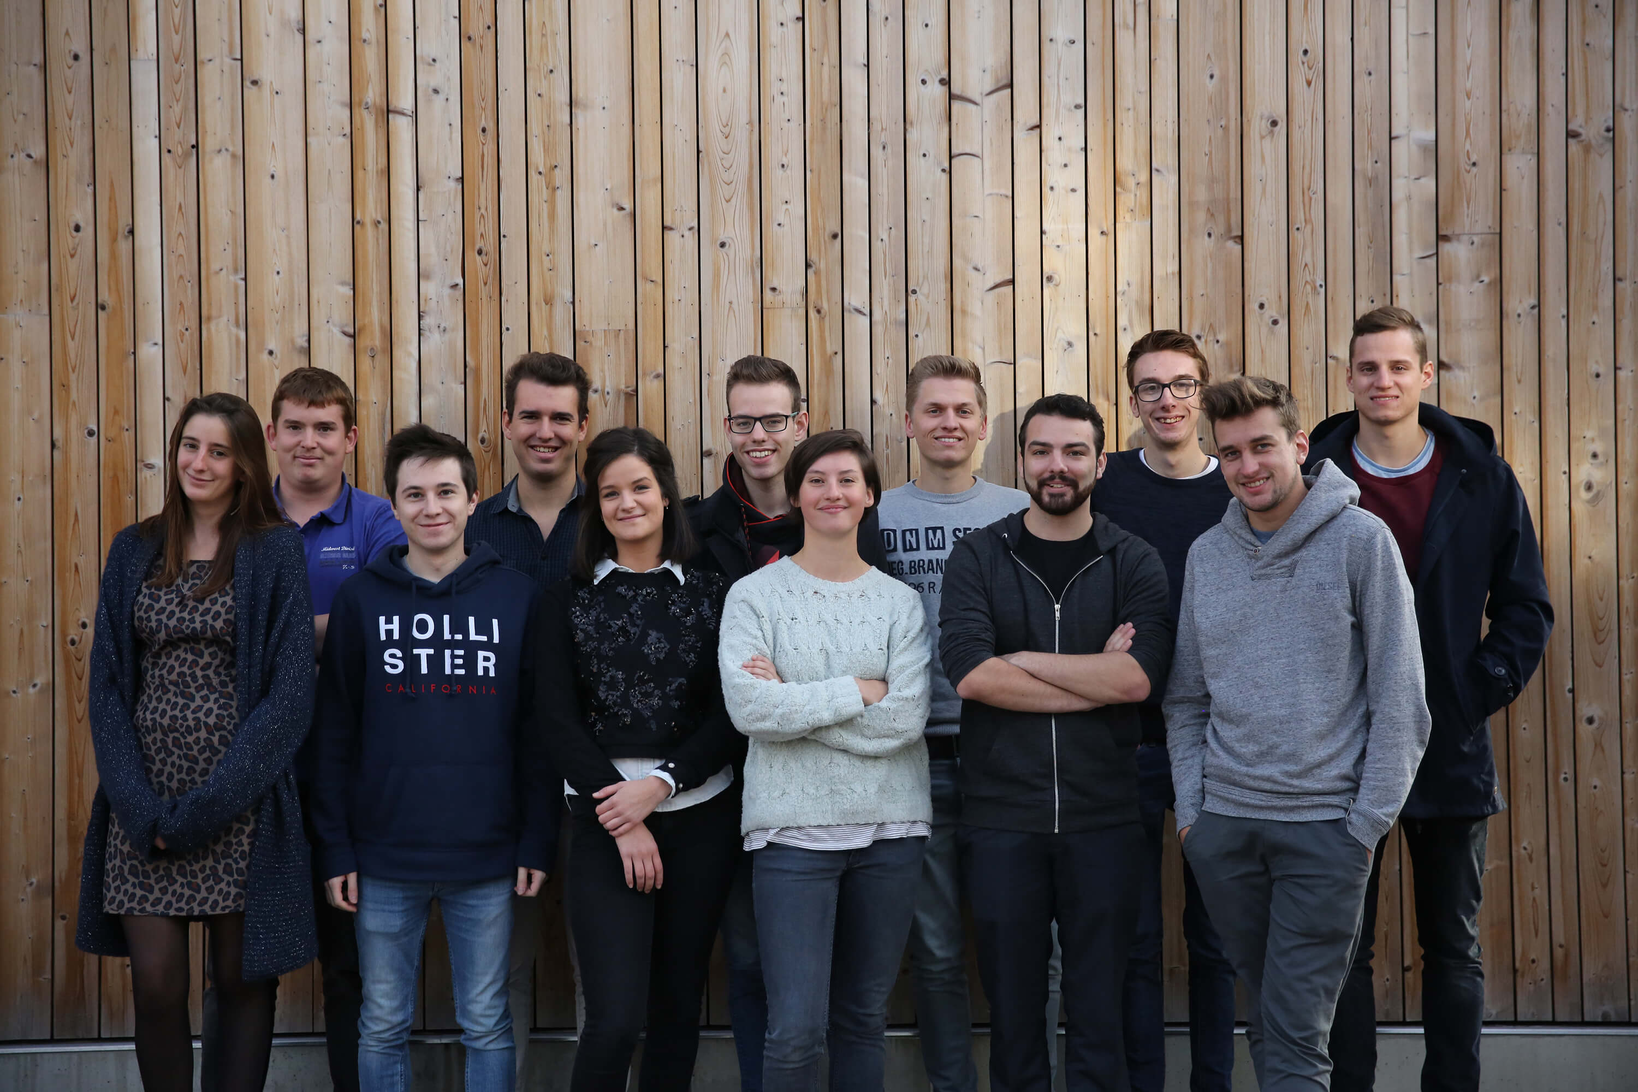
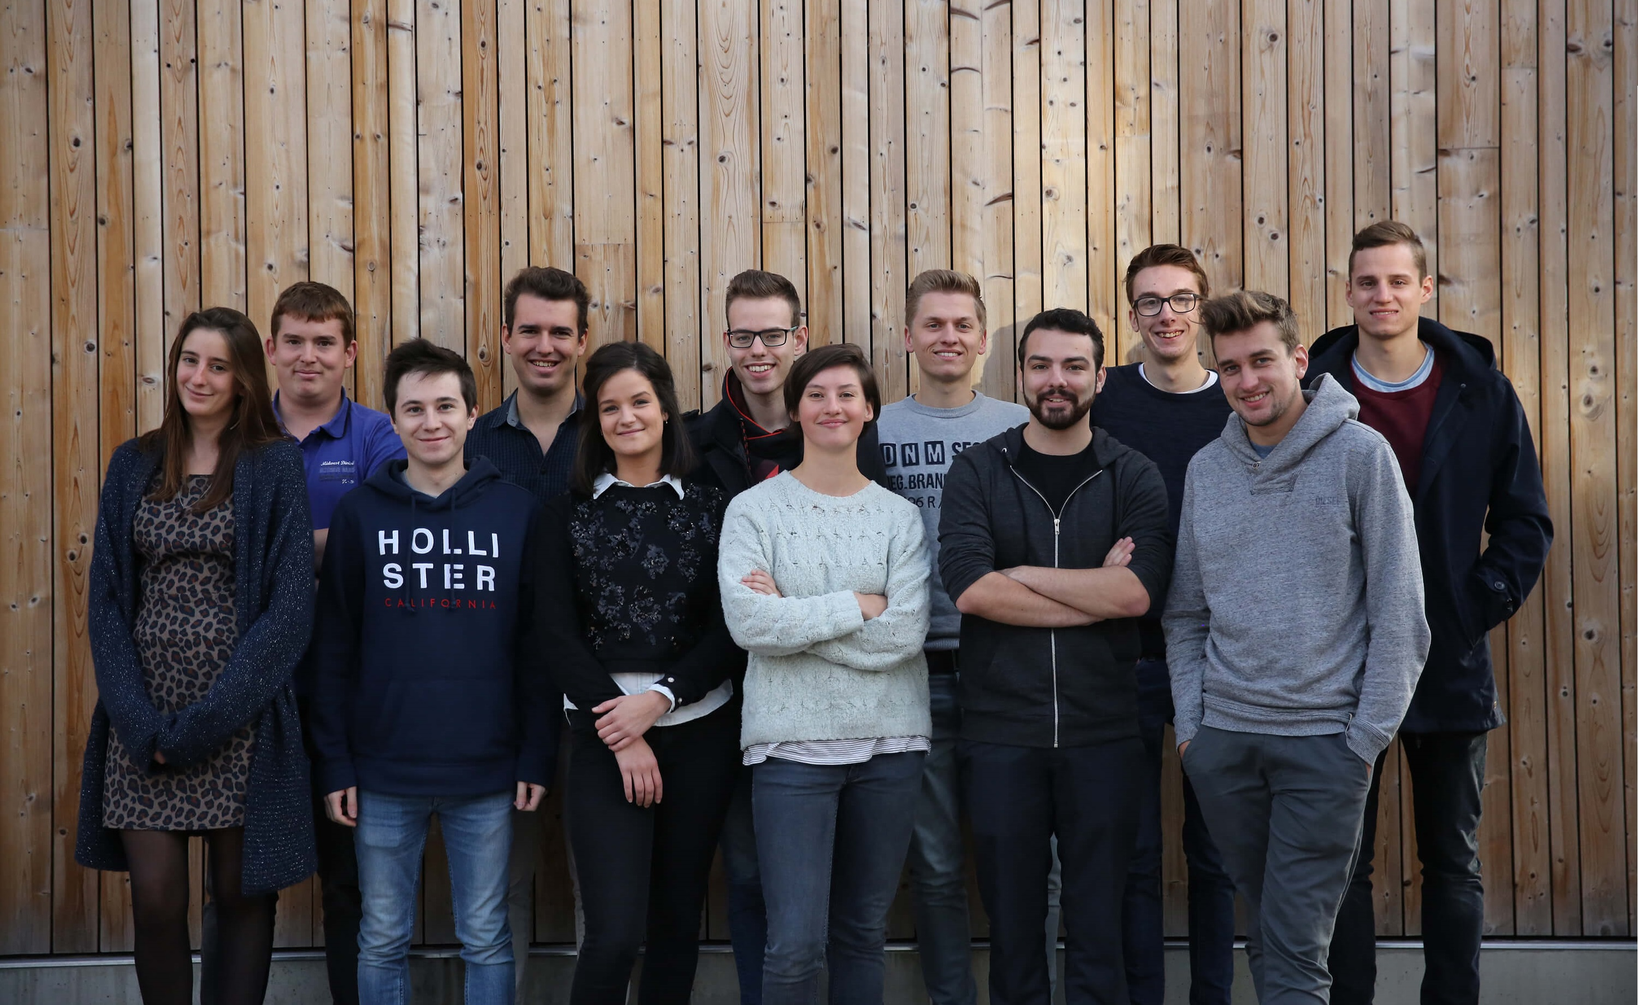
first teampage panel, and modified arrow

diff --git a/public/css/style.min.css b/public/css/style.min.css
@@ -1,1 +1,1 @@
-.header,.logo,.logo img{z-index:999}.hamburger-menu,.header{top:0;position:absolute}h1,nav ul li a{color:#fff;text-transform:uppercase;letter-spacing:2px}.fp-tableCell,.wrap-backProject{vertical-align:top}@font-face{font-family:Lato;font-style:normal;font-weight:300;src:local('Lato Light'),local('Lato-Light'),url(https://fonts.gstatic.com/s/lato/v11/nj47mAZe0mYUIySgfn0wpQ.ttf) format('truetype')}@font-face{font-family:Lato;font-style:normal;font-weight:400;src:local('Lato Regular'),local('Lato-Regular'),url(https://fonts.gstatic.com/s/lato/v11/v0SdcGFAl2aezM9Vq_aFTQ.ttf) format('truetype')}@font-face{font-family:Lato;font-style:normal;font-weight:700;src:local('Lato Bold'),local('Lato-Bold'),url(https://fonts.gstatic.com/s/lato/v11/DvlFBScY1r-FMtZSYIYoYw.ttf) format('truetype')}nav ul li a{text-decoration:none;font-family:Lato,sans-serif;font-weight:300;font-size:.8rem}.header{left:0;background:0 0;height:50px;width:100%;margin-top:20px}.logo{margin-left:5%}.logo img{height:100%;width:37px}.hamburger-menu{right:0;height:100%;width:50px;background-color:transparent;z-index:9999;cursor:pointer;padding-right:6%}.hamburger-menu .cd-menu-text{color:#fff;font-weight:700;display:none}.hamburger-menu .hamburger-menu-icon{display:inline-block;position:absolute;left:50%;top:50%;bottom:auto;right:auto;-ms-transform:translateX(-50%) translateY(-50%);transform:translateX(-50%) translateY(-50%);width:28px;height:3px;background-color:#fff;transition:background-color .3s}.hamburger-menu .hamburger-menu-icon::before,.hamburger-menu .hamburger-menu-icon:after{content:"";width:100%;height:100%;position:absolute;background-color:#fff;right:0;transition:transform .3s,top .3s,background-color 0s}.hamburger-menu .hamburger-menu-icon::before{top:-8px}.hamburger-menu .hamburger-menu-icon::after{top:8px}.hamburger-menu .hamburger-menu-icon.is-clicked{background-color:rgba(255,255,255,0)}.hamburger-menu .hamburger-menu-icon.is-clicked::after,.hamburger-menu .hamburger-menu-icon.is-clicked::before{background-color:#fff}.hamburger-menu .hamburger-menu-icon.is-clicked::before{top:0;-ms-transform:rotate(135deg);transform:rotate(135deg)}.hamburger-menu .hamburger-menu-icon.is-clicked::after{top:0;-ms-transform:rotate(225deg);transform:rotate(225deg)}.navigation{position:fixed;left:0;top:0;height:100%;width:100%;background:0 0;z-index:2;text-align:center;-webkit-backface-visibility:hidden;backface-visibility:hidden;overflow:auto;-webkit-overflow-scrolling:touch;-ms-transform:translateY(-100%);transform:translateY(-100%);transition-property:transform;transition-duration:.4s}.navigation ul{margin-top:10vh;padding-top:5vh}.navigation li{font-weight:300;margin:.2em 0;font-size:1.9rem;padding-top:1vh;padding-bottom:1vh}.navigation a{display:inline-block;padding:.4em 1em;border-radius:.25em;transition:background .2s}.navigation.is-visible{-ms-transform:translateY(0);transform:translateY(0);background-color:#22242a;z-index:2;position:fixed;-ms-flex-direction:column;flex-direction:column;display:-ms-flexbox;display:flex;-ms-flex-pack:center;justify-content:center;-ms-flex-align:center;align-items:center}@media (min-width:768px){.header.is-fixed,.header.menu-is-open{background-color:transparent}.navigation{position:fixed;top:50%;bottom:auto;-ms-transform:translateY(-50%);transform:translateY(-50%);margin-right:75px;text-align:right;display:block;height:auto;padding:0}.navigation li{display:inline-block;margin-left:.9em;margin-right:.9em;font-weight:300;font-size:1rem;letter-spacing:2px}.navigation li:last-child{margin-right:75px}.navigation a{display:inline-block;color:#fff;text-transform:uppercase;font-weight:400;padding:0}.logo{margin-left:75px}.logo img{width:50px;padding-top:0;height:100%}.header{transition:background-color .3s;-ms-transform:translate3d(0,0,0);transform:translate3d(0,0,0);-webkit-backface-visibility:hidden;backface-visibility:hidden;height:75px;margin-top:50px}.header.is-fixed{position:fixed;top:-80px;transition:transform .3s}.header.is-visible{-ms-transform:translate3d(0,100%,0);transform:translate3d(0,100%,0)}.hamburger-menu{display:none}}@media only screen and (min-width:1170px){.header.is-fixed,.header.menu-is-open{background-color:transparent}.header{transition:background-color .3s;-ms-transform:translate3d(0,0,0);transform:translate3d(0,0,0);-webkit-backface-visibility:hidden;backface-visibility:hidden;height:75px}.header.is-fixed{position:fixed;top:-80px;transition:transform .3s}.header.is-visible{-ms-transform:translate3d(0,100%,0);transform:translate3d(0,100%,0)}ul li:hover{transition:linear .2s;-ms-transform:scale(.9);transform:scale(1.3)}}.wrap-back{background-image:url(../img/back.jpg);position:relative;height:100vh;width:100vw;background-position:center center;background-size:cover}.wb-aptolist,.wb-doktercollemont,.wb-ecards,.wb-knowledgeflow,.wb-lcie,.wb-weareimd{background-image:url(../img/projects.jpg)}#teamBackground{background-image:url(../img/groepsfoto.jpg)}#procedureBackground{background-image:url(../img/procedure.png)}.overlay{position:absolute;height:100%;width:100%;background-color:#000;opacity:.5;z-index:9}.designosource img{width:140px;height:auto}h1{font-family:Lato,sans-serif;font-size:2rem;font-weight:300;margin-top:10px;margin-bottom:35px}.wrap-buttons{display:-ms-flexbox;display:flex}.btn-case,.btn-website{letter-spacing:2px;font-weight:400;font-size:10px;margin-top:0;z-index:99;display:inline-block;line-height:40px;padding:0 14px;position:relative;transition:all .3s ease 0s;height:40px;text-decoration:none;font-family:Lato;text-transform:uppercase;font-style:normal;cursor:pointer}.wrap-buttons a{text-decoration:none}.btn-case{background:none;border:1px solid #FFF;color:#FFF;border-width:2px!important;border-style:solid!important;border-radius:3px;margin-right:15px}.btn-case:hover{color:#000;background-color:#fff}.btn-website{background:#fff;border:1px solid #FFF;color:#000;border-width:2px!important;border-style:solid!important;border-radius:3px}.mail,.type-wrap{font-weight:300;font-family:Lato,sans-serif;letter-spacing:1px}.header-image-project,.image-scroll{background-position:center center;background-size:cover}.btn-website:hover{color:#fff;background-color:#000;border:1px solid #000}.scroll-btn{position:absolute;bottom:0;right:0;margin-bottom:20px;margin-right:6%;width:40px;height:40px;border:2px solid #fff;border-radius:2px;display:-ms-flexbox;display:flex;-ms-flex-pack:center;justify-content:center;-ms-flex-align:center;align-items:center;cursor:pointer;transition:all .4s ease-in-out;-webkit-transition:all .4s ease-in-out;z-index:999}.scroll-btn:hover{border:2px solid transparent}.image-scroll{background-image:url(../img/down-arrow.svg);height:60%;width:60%}@media (min-width:768px){.wrap-panel-content{margin-left:75px}#panel1Background,#panel4Background{background-image:url(../img/test1.gif)}#panel2Background,#panel5Background{background-image:url(../img/test2.gif)}#panel3Background,#panel6Background{background-image:url(../img/test3.gif)}.scroll-btn{margin-right:75px;margin-bottom:60px}}.wrap-contact{width:100vw;height:100vh;background-color:#000}.wrap-contact-content{position:absolute;bottom:0;left:0;margin-bottom:60px;margin-left:5%;width:100%;z-index:99}.border-mail{border:2px solid #fff;padding:25px;width:300px;text-align:center;margin-top:50px;margin-bottom:35px;border-radius:3px}.mail{color:#fff;font-size:1.6rem}.type-wrap{color:#fff;font-size:2rem;width:75%}.typed-cursor{opacity:1;font-weight:100;animation:blink .7s infinite}@-keyframes blink{0%,100%{opacity:1}50%{opacity:0}}.header-image-project{position:relative;width:100vw;height:60vh;background-image:url(../img/projects.jpg)}.wrap-project{position:relative;display:-ms-flexbox;display:flex;-ms-flex-direction:column;flex-direction:column;-ms-flex-align:center;align-items:center;-ms-flex-pack:center;justify-content:center;background-color:#F2F2F2;padding-left:100px;padding-right:100px;padding-bottom:100px}.wrap-project-content{width:100%;height:auto;background-color:#fff;border-radius:2px;margin-top:-125px;z-index:999;box-shadow:0 3px 6px 0 #c8c8c8}.title-project{font-family:Lato,sans-serif;font-weight:400;color:#323232;letter-spacing:1px;font-size:1.8rem;text-transform:uppercase;padding:75px 150px}.text-project,.wrap-btn-project{padding-left:150px;padding-right:150px}.text-project{font-family:Lato,sans-serif;font-weight:300;color:#323232;letter-spacing:1px;line-height:2em;padding-bottom:50px}.wrap-btn-project{padding-bottom:75px}.wrap-btn-project a{text-decoration:none}.btn-project{font-family:Lato;text-transform:uppercase;letter-spacing:2px;font-weight:400;font-style:normal;font-size:10px;background:none;border:1px solid #323232;color:#323232;border-width:2px!important;border-style:solid!important;cursor:pointer;display:inline-block;line-height:40px;padding:0 14px;height:40px;position:relative;transition:all .3s ease 0s;border-radius:3px;z-index:999}.btn-project:hover{color:#fff;background-color:#323232}.wrap-backProject{height:75vh;width:100vw;background-size:cover;display:block;position:relative;background-position:top}.wrap-panel-content{position:absolute;bottom:0;left:0;margin-bottom:20px;margin-left:5%;z-index:99}.fp-tableCell>p{padding-top:15px;width:70%;font-size:1.2em;line-height:27px;display:block;margin-left:auto;margin-right:auto;font-weight:600}#projectBackground{background-color:#fff}.overlayProject{position:absolute;height:75vh;width:100vw;background-color:#000;opacity:.5;z-index:9}#projectHeader{margin-left:20%;margin-right:20%}@media (min-width:768px){.fp-tableCell>p{padding-top:25px;width:60%;font-size:1.3em;line-height:27px;display:block;margin-left:auto;margin-right:auto}.wrap-panel-content{position:absolute;bottom:0;left:0;margin-bottom:60px;margin-left:75px;z-index:99}}
+.header,.logo,.logo img{z-index:999}.hamburger-menu,.header{top:0;position:absolute}h1,nav ul li a{color:#fff;text-transform:uppercase;letter-spacing:2px}nav ul li a{text-decoration:none;font-family:Lato,sans-serif;font-weight:300;font-size:1.6rem}.header{left:0;background:0 0;height:50px;width:100%;margin-top:20px}.logo{margin-left:5%}.logo img{height:100%;width:37px}.hamburger-menu{right:0;height:100%;width:50px;background-color:transparent;z-index:9999;cursor:pointer;padding-right:6%}.hamburger-menu .cd-menu-text{color:#fff;font-weight:700;display:none}.hamburger-menu .hamburger-menu-icon{display:inline-block;position:absolute;left:50%;top:50%;bottom:auto;right:auto;-ms-transform:translateX(-50%) translateY(-50%);transform:translateX(-50%) translateY(-50%);width:28px;height:3px;background-color:#fff;transition:background-color .3s}.hamburger-menu .hamburger-menu-icon::before,.hamburger-menu .hamburger-menu-icon:after{content:"";width:100%;height:100%;position:absolute;background-color:#fff;right:0;transition:transform .3s,top .3s,background-color 0s}.hamburger-menu .hamburger-menu-icon::before{top:-8px}.hamburger-menu .hamburger-menu-icon::after{top:8px}.hamburger-menu .hamburger-menu-icon.is-clicked{background-color:rgba(255,255,255,0)}.hamburger-menu .hamburger-menu-icon.is-clicked::after,.hamburger-menu .hamburger-menu-icon.is-clicked::before{background-color:#fff}.hamburger-menu .hamburger-menu-icon.is-clicked::before{top:0;-ms-transform:rotate(135deg);transform:rotate(135deg)}.hamburger-menu .hamburger-menu-icon.is-clicked::after{top:0;-ms-transform:rotate(225deg);transform:rotate(225deg)}.navigation{position:fixed;left:0;top:0;height:100%;width:100%;background:0 0;z-index:2;text-align:center;-webkit-backface-visibility:hidden;backface-visibility:hidden;overflow:auto;-webkit-overflow-scrolling:touch;-ms-transform:translateY(-100%);transform:translateY(-100%);transition-property:transform;transition-duration:.4s}.navigation ul{margin-top:10vh;padding-top:5vh}.navigation li{font-weight:300;margin:.2em 0;font-size:1.9rem;padding-top:1vh;padding-bottom:1vh}.navigation a{display:inline-block;padding:.4em 1em;border-radius:.25em;transition:background .2s}.navigation.is-visible{-ms-transform:translateY(0);transform:translateY(0);background-color:#22242a;z-index:2;position:fixed;-ms-flex-direction:column;flex-direction:column;display:-ms-flexbox;display:flex;-ms-flex-pack:center;justify-content:center;-ms-flex-align:center;align-items:center}@media (min-width:768px){.header.is-fixed,.header.menu-is-open{background-color:transparent}.navigation{position:fixed;top:50%;bottom:auto;-ms-transform:translateY(-50%);transform:translateY(-50%);margin-right:75px;text-align:right;display:block;height:auto;padding:0}.navigation li{display:inline-block;margin-left:.9em;margin-right:.9em;font-weight:300;font-size:1rem;letter-spacing:2px}.navigation li:last-child{margin-right:75px}.navigation a{display:inline-block;color:#fff;text-transform:uppercase;font-weight:400;padding:0}.logo{margin-left:75px}.logo img{width:50px;padding-top:0;height:100%}.header{transition:background-color .3s;-ms-transform:translate3d(0,0,0);transform:translate3d(0,0,0);-webkit-backface-visibility:hidden;backface-visibility:hidden;height:75px;margin-top:50px}.header.is-fixed{position:fixed;top:-80px;transition:transform .3s}.header.is-visible{-ms-transform:translate3d(0,100%,0);transform:translate3d(0,100%,0)}.hamburger-menu{display:none}nav ul li a{font-size:.8rem}}@media only screen and (min-width:1170px){.header.is-fixed,.header.menu-is-open{background-color:transparent}.header{transition:background-color .3s;-ms-transform:translate3d(0,0,0);transform:translate3d(0,0,0);-webkit-backface-visibility:hidden;backface-visibility:hidden;height:75px}.header.is-fixed{position:fixed;top:-80px;transition:transform .3s}.header.is-visible{-ms-transform:translate3d(0,100%,0);transform:translate3d(0,100%,0)}ul li:hover{transition:linear .2s;-ms-transform:scale(.9);transform:scale(1.3)}}.wrap-back{background-image:url(../img/back.jpg);position:relative;height:100vh;width:100vw;background-position:center center;background-size:cover}.wb-aptolist,.wb-doktercollemont,.wb-ecards,.wb-knowledgeflow,.wb-lcie,.wb-weareimd{background-image:url(../img/projects.jpg)}#teamBackground{background-image:url(../img/home.jpg)}#procedureBackground{background-image:url(../img/procedure.png)}.overlay{position:absolute;height:100%;width:100%;background-color:#000;opacity:.5;z-index:9}.designosource img{width:140px;height:auto}h1{font-family:Lato,sans-serif;font-size:2rem;font-weight:300;margin-top:10px;margin-bottom:35px}.wrap-buttons{display:-ms-flexbox;display:flex}.btn-case,.btn-contact,.btn-website{letter-spacing:2px;font-weight:400;font-size:10px;margin-top:0;z-index:99;display:inline-block;line-height:40px;padding:0 14px;height:40px;position:relative;transition:all .3s ease 0s;text-decoration:none;font-family:Lato;text-transform:uppercase;font-style:normal;cursor:pointer}.wrap-buttons a{text-decoration:none}.btn-case{background:none;border:1px solid #FFF;color:#FFF;border-width:2px!important;border-style:solid!important;border-radius:3px;margin-right:15px}.btn-contact{background:none;border:1px solid #00FFCB;color:#00FFCB;border-width:2px!important;border-style:solid!important;border-radius:3px;margin-right:15px}.btn-contact:hover{color:#fff}.btn-case:hover{color:#000;background-color:#fff}.btn-website{background:#fff;border:1px solid #FFF;color:#000;border-width:2px!important;border-style:solid!important;border-radius:3px}.mail,.type-wrap{font-weight:300;font-family:Lato,sans-serif;letter-spacing:1px}.header-image-project,.image-scroll{background-position:center center;background-size:cover}.btn-website:hover{color:#fff;background-color:#000;border:1px solid #000}.scroll-btn{position:absolute;bottom:0;right:0;margin-bottom:20px;margin-right:6%;width:44px;height:44px;border-radius:2px;display:-ms-flexbox;display:flex;-ms-flex-pack:center;justify-content:center;-ms-flex-align:center;align-items:center;cursor:pointer;transition:all .2s ease-in-out;-webkit-transition:all .2s ease-in-out;z-index:999}.image-scroll{background-image:url(../img/arrow.svg);height:100%;width:100%}.image-scroll:hover{background-image:url(../img/arrowGreen.svg);transition:all .4s linear;-webkit-transition:all .4s linear}@media (min-width:768px){.wrap-panel-content{margin-left:75px}#panel1Background,#panel4Background{background-image:url(../img/test1.gif)}#panel2Background,#panel5Background{background-image:url(../img/test2.gif)}#panel3Background,#panel6Background{background-image:url(../img/test3.gif)}.scroll-btn{margin-right:75px;margin-bottom:60px}}.wrap-contact{width:100vw;height:100vh;background-color:#000}.wrap-contact-content{position:absolute;bottom:0;left:0;margin-bottom:60px;margin-left:5%;width:100%;z-index:99}.border-mail{border:2px solid #fff;padding:25px;width:300px;text-align:center;margin-top:50px;margin-bottom:35px;border-radius:3px}.mail{color:#fff;font-size:1.6rem}.type-wrap{color:#fff;font-size:2rem;width:75%}.typed-cursor{opacity:1;font-weight:100;animation:blink .7s infinite}@-keyframes blink{0%,100%{opacity:1}50%{opacity:0}}.header-image-project{position:relative;width:100vw;height:60vh;background-image:url(../img/projects.jpg)}.wrap-project{position:relative;display:-ms-flexbox;display:flex;-ms-flex-direction:column;flex-direction:column;-ms-flex-align:center;align-items:center;-ms-flex-pack:center;justify-content:center;background-color:#F2F2F2;padding-left:100px;padding-right:100px;padding-bottom:100px}.wrap-project-content{width:100%;height:auto;background-color:#fff;border-radius:2px;margin-top:-125px;z-index:999;box-shadow:0 3px 6px 0 #c8c8c8}.title-project{font-family:Lato,sans-serif;font-weight:400;color:#323232;letter-spacing:1px;font-size:1.8rem;text-transform:uppercase;padding:75px 150px}.text-project,.wrap-btn-project{padding-left:150px;padding-right:150px}.text-project{font-family:Lato,sans-serif;font-weight:300;color:#323232;letter-spacing:1px;line-height:2em;padding-bottom:50px}.wrap-btn-project{padding-bottom:75px}.wrap-btn-project a{text-decoration:none}.btn-project{font-family:Lato;text-transform:uppercase;letter-spacing:2px;font-weight:400;font-style:normal;font-size:10px;background:none;border:1px solid #323232;color:#323232;border-width:2px!important;border-style:solid!important;cursor:pointer;display:inline-block;line-height:40px;padding:0 14px;height:40px;position:relative;transition:all .3s ease 0s;border-radius:3px;z-index:999}.btn-project:hover{color:#fff;background-color:#323232}.fp-tableCell{vertical-align:top}.wrap-backProject{height:75vh;width:100vw;background-size:cover;display:block;position:relative;background-position:top;vertical-align:top}.wrap-panel-content{position:absolute;bottom:0;left:0;margin-bottom:20px;margin-left:5%;z-index:99}.fp-tableCell>p{padding-top:15px;width:70%;font-size:1.2em;line-height:27px;display:block;margin-left:auto;margin-right:auto;font-weight:600}#projectBackground{background-color:#fff}.overlayProject{position:absolute;height:75vh;width:100vw;background-color:#000;opacity:.5;z-index:9}#projectHeader{margin-left:20%;margin-right:20%}@media (min-width:768px){.fp-tableCell>p{padding-top:25px;width:60%;font-size:1.3em;line-height:27px;display:block;margin-left:auto;margin-right:auto}.wrap-panel-content{position:absolute;bottom:0;left:0;margin-bottom:60px;margin-left:75px;z-index:99}}#team h1 span{color:#00FFCB}

diff --git a/assets/sass/modules/_panel.scss b/assets/sass/modules/_panel.scss
@@ -40,7 +40,7 @@
 
 #teamBackground
 {
-    background-image: url("../img/groepsfoto.jpg");
+    background-image: url("../img/home.jpg");
 }
 
 #procedureBackground
@@ -123,7 +123,39 @@ h1
     margin-right: 15px;
 
 }
+.btn-contact
+{
+    font-family: Lato;
+    text-transform: uppercase;
+    letter-spacing: 2px;
+    font-weight: 400;
+    font-style: normal;
+    font-size: 10px;
+    background: none repeat scroll 0% 0% transparent;
+    border: 1px solid $green;
+    color: $green;
+    margin-top: 0;
+    z-index: 99;
+    border-width: 2px !important;
+    border-style: solid !important;
+    cursor: pointer;
+    display: inline-block;
+    line-height: 40px;
+    padding: 0 14px;
+    height: 40px;
+    position: relative;
+    text-decoration: none;
+    transition: all 0.3s ease 0s;
+    border-radius: 3px;
+    margin-right: 15px;
 
+}
+
+.btn-contact:hover
+{
+    color: #fff;
+
+}
 .btn-case:hover
 {
     color: #000;
@@ -175,31 +207,32 @@ h1
     right: 0;
     margin-bottom: 20px;
     margin-right: 6%;
-    width: 40px;
-    height: 40px;
-    border: 2px solid #fff;
+    width: 44px;
+    height: 44px;
     border-radius: 2px;
     display: flex;
     justify-content: center;
     align-items: center;
     cursor: pointer;
-    transition: all 0.4s ease-in-out;
-    -webkit-transition: all 0.4s ease-in-out;
+    transition: all 0.2s ease-in-out;
+    -webkit-transition: all 0.2s ease-in-out;
     z-index: 999;
 }
 
-.scroll-btn:hover
-{
-    border: 2px solid transparent;
-}
 
 .image-scroll
 {
-    background-image: url("../img/down-arrow.svg");
-    height: 60%;
-    width: 60%;
+    background-image: url("../img/arrow.svg");
+    height: 100%;
+    width: 100%;
     background-position: center center;
     background-size: cover;
+}
+.image-scroll:hover
+{
+    background-image: url("../img/arrowGreen.svg");
+    transition: all 0.4s linear;
+    -webkit-transition: all 0.4s linear;
 }
 
 @media (min-width: 768px)

diff --git a/team.html b/team.html
@@ -49,26 +49,26 @@
 
 
 <div id="fullpage">
-    <div class="section">
-        <div class="wrap-back">
+    <div class="section" id="team" >
+        <div id="teamBackground" class="wrap-back">
             <div class="overlay"></div>
-            <div class="wrap-panel-content">
-                <div class="designosource"><img src="public/img/designosource.svg" alt="Designosource"></div>
-                <h1>TEAM + ABOUT</h1>
+            <div class="wrap-panel-content" >
+                <h1>Het Designoteam</h1>
                 <div class="wrap-buttons">
-                    <a href="#team"><div class="btn-case">View Team</div></a>
-                    <a href="#procedure"><div class="btn-website">View Procedure</div></a>
+                    <div class="btn-contact">Ontdek</div>
                 </div>
             </div>
+
         </div>
     </div>
 
-    <div class="section" id="team">
-        <div class="wrap-back" id="teamBackground">
+    <div class="section" id="team" >
+        <div id="detail" class="wrap-back">
             <div class="overlay"></div>
-            <div class="wrap-panel-content">
-                <h1>TEAM</h1>
+            <div class="wrap-panel-content" >
+
             </div>
+
         </div>
     </div>
 </div>
@@ -81,8 +81,15 @@
             navigation: true
 
         });
-
+    // MOVE SECTION DWN
+        $(".scroll-btn").click(function() {
+            $.fn.fullpage.moveSectionDown();
+        });
+        $(".wrap-buttons").click(function() {
+            $.fn.fullpage.moveSectionDown();
+        });
     });
+
 </script>
 <script src="public/js/script.js"></script>
 </body>

diff --git a/assets/sass/modules/_navigation.scss b/assets/sass/modules/_navigation.scss
@@ -5,7 +5,7 @@ nav ul li a {
   text-transform: uppercase;
   letter-spacing: 2px;
   font-weight: 300;
-  font-size: 0.8rem;
+  font-size: 1.6rem;
 }
 
 .header {
@@ -270,6 +270,10 @@ nav ul li a {
   }
   .hamburger-menu{
     display: none;
+  }
+  nav ul li a {
+
+    font-size: 0.8rem;
   }
 
 }

diff --git a/assets/sass/style.scss b/assets/sass/style.scss
@@ -3,4 +3,5 @@
 @import "modules/panel";
 @import "modules/contact";
 @import "modules/projects";
-@import url('https://fonts.googleapis.com/css?family=Lato:300,400,700');
+@import "modules/team";
+//@import url('https://fonts.googleapis.com/css?family=Lato:300,400,700');

diff --git a/assets/sass/_base.scss b/assets/sass/_base.scss
@@ -1,2 +1,3 @@
 // variabelen
 $purple: #7b4397;
+$green: #00FFCB;

diff --git a/assets/sass/modules/_team.scss b/assets/sass/modules/_team.scss
@@ -1,0 +1,3 @@
+#team h1 span{
+  color: $green;
+}
